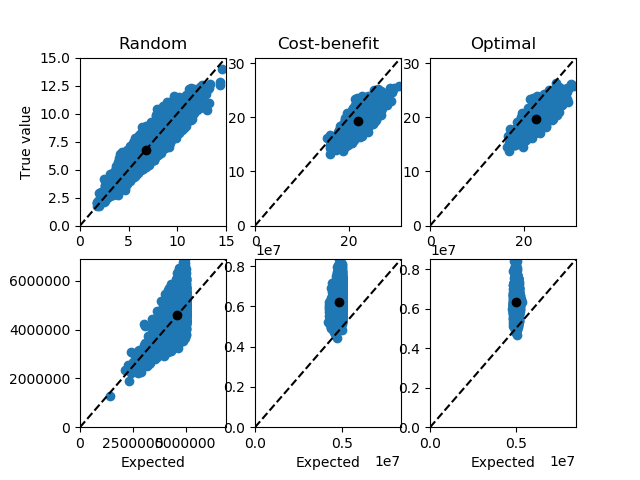
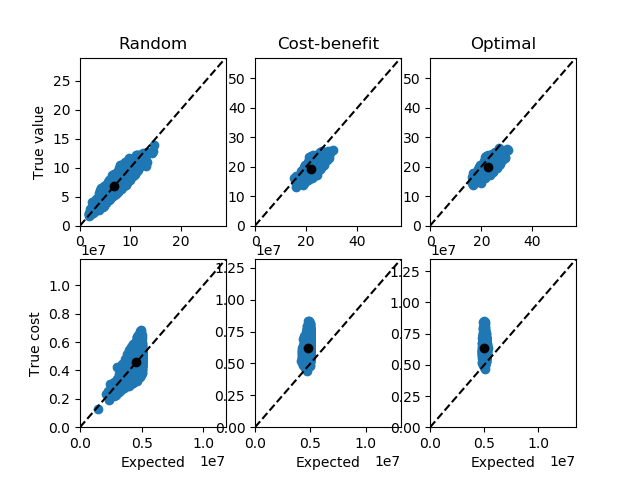
Updated results with 5000 repeats and finer resolution in estimation variance

diff --git a/optimiser_curse_island.py b/optimiser_curse_island.py
@@ -543,19 +543,19 @@ def basic_plots(num_realisations=200,num_islands=50,
     plt.close()
 
 
-if  __name__ == "__main__":
+if __name__ == "__main__":
     # cost parameters - this produces costs between approx 250k and 1.5mil
     cost_average = 7e5
     cost_variance = 1e11
     budget = 5e6
-    repeats = 1000
+    repeats = 5000
 
     # estimation_variance_list = [.05, .04,.03,.02,.01,.005,.001]
     estimation_variance_list = list(np.arange(.1,.01,-.01))+list(np.arange(.01,.001,-.001))+[.001]
     estimation_variance_list = np.round(estimation_variance_list, decimals=3)
-    # run_multiple_uncertainty(num_realisations=5000, num_islands=150,
-    #                          estimation_variance_list=estimation_variance_list,
-    #                          budget=budget, cost_ave=cost_average, cost_var=cost_variance)
+    run_multiple_uncertainty(num_realisations=5000, num_islands=150,
+                             estimation_variance_list=estimation_variance_list,
+                             budget=budget, cost_ave=cost_average, cost_var=cost_variance)
 
     basic_plots(num_realisations=repeats, num_islands=150,
                              estimation_variance_list=estimation_variance_list,
